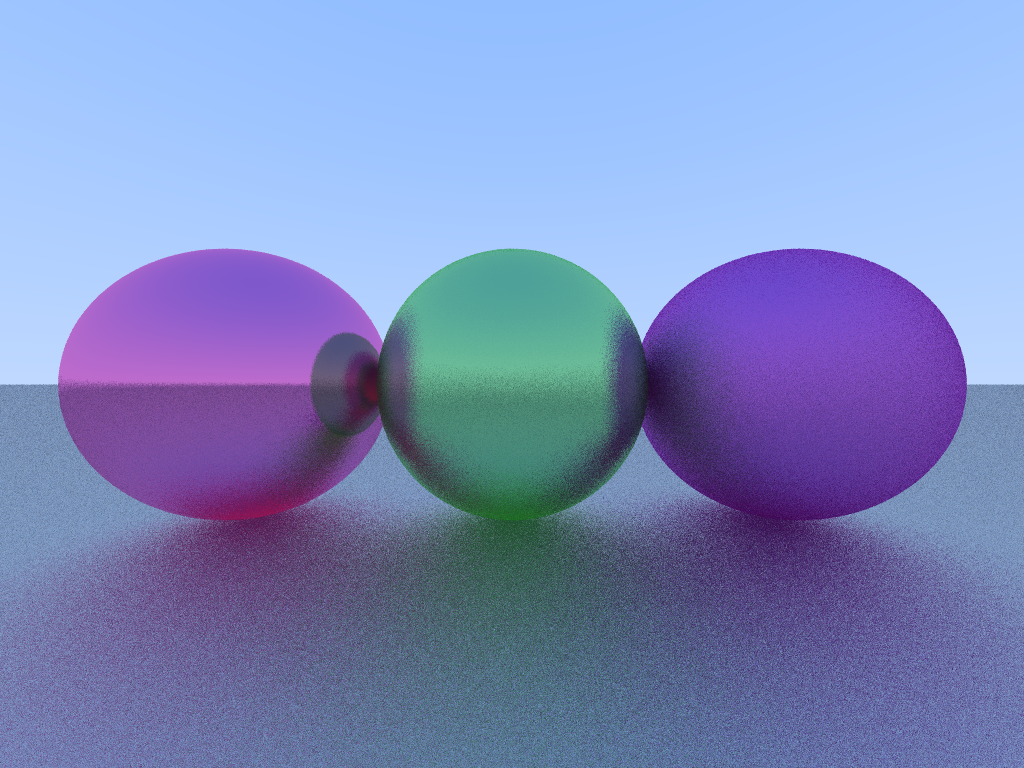
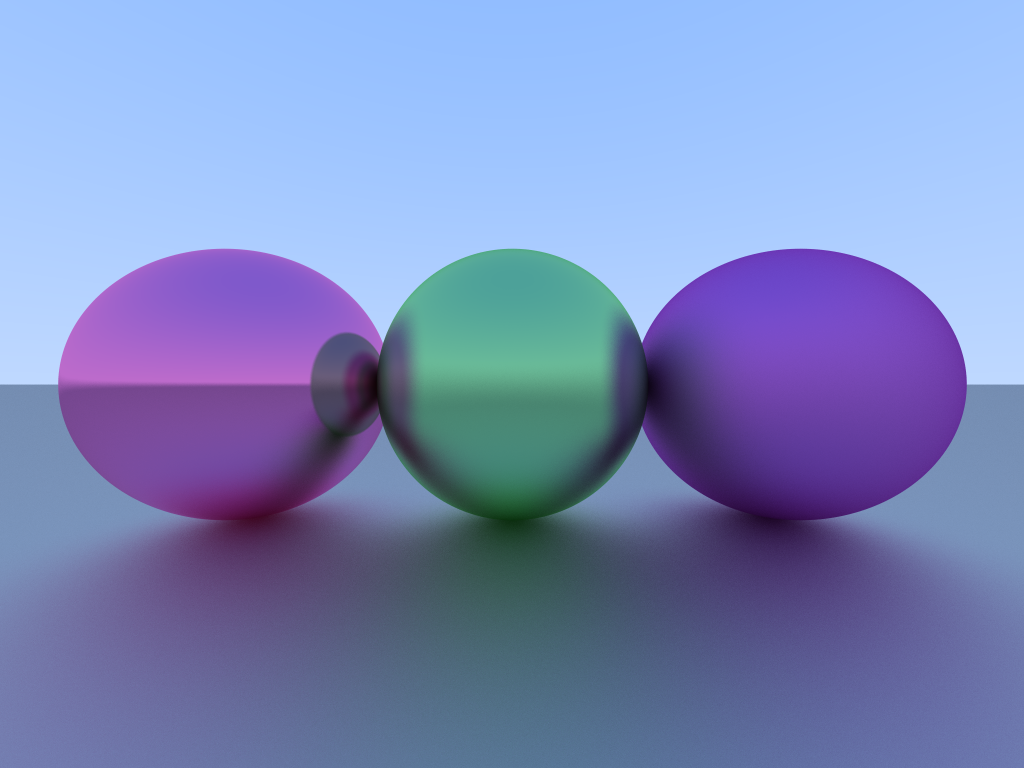
simd vectors 3d

diff --git a/Path_Tracer/Path_Tracer/vec3_simd.h b/Path_Tracer/Path_Tracer/vec3_simd.h
@@ -1,7 +1,8 @@
 #pragma once
 
 #include <math.h>
-#include "customVector.h"
+#include <time.h>
+#include <stdlib.h>
 #include <immintrin.h> // For SIMD intrinsics
 
 // Modified Vec3 structure to align with SIMD requirements
@@ -11,12 +12,9 @@ struct alignas(16) Vec3_simd {
         __m128 simd; // SSE register that can hold 4 floats (we'll use only 3)
     };
 
-    Vec3_simd() : x(0), y(0), z(0) {}
-    Vec3_simd(float x, float y, float z) : x(x), y(y), z(z) {}
+    Vec3_simd() : simd(_mm_setzero_ps()) {}
+    Vec3_simd(float x, float y, float z) : simd(_mm_set_ps(0.0f, z, y, x)) {}
     Vec3_simd(__m128 v) : simd(v) {}
-
-    Vec3_simd(const Vec3& v) : simd(_mm_set_ps(0.f, v.z, v.y, v.x)) {}
-    operator Vec3() const { return Vec3{ x, y, z }; }
 };
 
 
@@ -52,19 +50,27 @@ inline Vec3_simd cross(Vec3_simd a, Vec3_simd b) {
         _mm_mul_ps(a_yzx, b_zxy),
         _mm_mul_ps(a_zxy, b_yzx)
     );
-
-    // Shuffle back to original order (x, y, z)
-    return _mm_shuffle_ps(result, result, _MM_SHUFFLE(3, 0, 2, 1));
+    // Remove the final shuffle
+    return Vec3_simd(result);
 }
 
-// SIMD implementation of dot product
 inline float dot(Vec3_simd a, Vec3_simd b) {
-    __m128 mul = _mm_mul_ps(a.simd, b.simd);
-    __m128 shuf = _mm_shuffle_ps(mul, mul, _MM_SHUFFLE(2, 3, 0, 1));
-    __m128 sums = _mm_add_ps(mul, shuf);
-    shuf = _mm_movehl_ps(shuf, sums);
-    sums = _mm_add_ss(sums, shuf);
-    return _mm_cvtss_f32(sums);
+    __m128 dp = _mm_dp_ps(a.simd, b.simd, 0x77); // Mask 0x77 (x,y,z components)
+    return _mm_cvtss_f32(dp);
+}
+
+inline float fast_mag(Vec3_simd a) {
+    __m128 dp = _mm_dp_ps(a.simd, a.simd, 0x77);
+    return _mm_cvtss_f32(_mm_sqrt_ps(dp));
+}
+
+inline Vec3_simd norm(Vec3_simd a) {
+    __m128 len_sq = _mm_dp_ps(a.simd, a.simd, 0x77); // Correct mask
+    __m128 mask = _mm_cmpgt_ps(len_sq, _mm_setzero_ps());
+    __m128 len = _mm_sqrt_ps(len_sq);
+    __m128 inv_len = _mm_div_ps(_mm_set1_ps(1.0f), len);
+    inv_len = _mm_and_ps(inv_len, mask);
+    return Vec3_simd(_mm_mul_ps(a.simd, inv_len));
 }
 
 // SIMD implementation of magnitude
@@ -72,21 +78,6 @@ inline float mag(Vec3_simd a) {
     return sqrt(dot(a, a));
 }
 
-inline float fast_mag(Vec3_simd a) {
-    return _mm_cvtss_f32(_mm_sqrt_ss(_mm_dp_ps(a.simd, a.simd, 0x71)));
-}
-
-// SIMD implementation of normalization
-inline Vec3_simd norm(Vec3_simd a) {
-    float length = mag(a);
-    if (length > 0.0f) {
-        __m128 inv_len = _mm_set1_ps(1.0f / length);
-        return _mm_mul_ps(a.simd, inv_len);
-    }
-    return a;
-}
-
-// SIMD implementation of reflection
 inline Vec3_simd reflect(Vec3_simd a, Vec3_simd n) {
     float d = dot(a, n);
     __m128 two_d = _mm_set1_ps(2.0f * d);
@@ -104,3 +95,48 @@ inline Vec3_simd zero() {
     return _mm_setzero_ps();
 }
 
+#include <immintrin.h>
+#include <xmmintrin.h>
+
+// SIMD saturate (single float)
+inline float saturate(float a) {
+    // Branchless SSE implementation
+    __m128 val = _mm_set_ss(a);
+    val = _mm_max_ss(val, _mm_setzero_ps());
+    val = _mm_min_ss(val, _mm_set_ss(1.0f));
+    return _mm_cvtss_f32(val);
+}
+
+// SIMD saturate (Vec3)
+inline Vec3_simd saturate(Vec3_simd a) {
+    const __m128 zero = _mm_setzero_ps();
+    const __m128 one = _mm_set1_ps(1.0f);
+    __m128 result = a.simd;
+    result = _mm_max_ps(result, zero);  // Clamp min 0
+    result = _mm_min_ps(result, one);   // Clamp max 1
+    return Vec3_simd(result);
+}
+
+// Random number generation (scalar remains same)
+inline float randf() {
+    return rand() / (RAND_MAX + 1.0f);
+}
+
+// SIMD random vector [-1, 1]
+inline Vec3_simd randf3() {
+    alignas(16) float vals[4];
+    for (int i = 0; i < 3; ++i) {
+        vals[i] = 2.0f * randf() - 1.0f;
+    }
+    vals[3] = 0.0f;  // unused component
+    return Vec3_simd(_mm_load_ps(vals));
+}
+
+// SIMD random point in unit sphere
+inline Vec3_simd rand_in_sphere() {
+    Vec3_simd value = randf3();
+    while (dot(value, value) > 1.0f) {  // Using squared length check
+        value = randf3();
+    }
+    return value;
+}

diff --git a/Path_Tracer/Path_Tracer/Path_Tracer.cpp b/Path_Tracer/Path_Tracer/Path_Tracer.cpp
@@ -14,6 +14,7 @@ std::mutex console_mutex;
 #include "intersections.h"
 #include "render.h"
 #include "gaussian_filter.h"
+#include "vec3_simd.h"
 
 // definicje zapobiegajace ostrzezeniom z zewnetrznej biblioteki do zapisywania wyrenderowanego obrazu do pliku
 #define STB_IMAGE_WRITE_IMPLEMENTATION
@@ -52,7 +53,7 @@ int main(int argc, const char* argv[])
 	if (quality == 2) quality = 100;
 	const uint32_t samples = 1000 / quality;
 	const uint32_t tile_size = 64;
-	const uint32_t batch_size = 4;
+	const uint32_t batch_size = 1;
 
 	// inne zmienne
 	const uint32_t stride = 3; // glebia obrazu -> 3 dla RGB 
@@ -77,6 +78,7 @@ int main(int argc, const char* argv[])
 	const uint32_t total_tiles = num_tiles_x * num_tiles_y;
 
 	std::vector<std::thread> jobs;
+	std::atomic<uint32_t> tiles_done(0);
 
 	// praca watkow
 	for (uint32_t t = 0; t < num_threads; ++t)
@@ -86,14 +88,11 @@ int main(int argc, const char* argv[])
 			{
 				uint32_t start_tile_index = next_tile.fetch_add(batch_size); // ustawienie poczatkowego fragmentu zeby watek wiedzial jaki zakres fragmentow pobrac
 				
-
 				if (start_tile_index >= total_tiles)
 					break;
 
 				uint32_t end_tile_index = std::min(start_tile_index + batch_size, total_tiles); // wyznaczenie ostatniego pobranego fragmentu przez watek
-				if (progress) {
-					printf("Renderowanie fragmentow od %i do %i na %i fragmentow...\n", start_tile_index, end_tile_index - 1, total_tiles);
-				}
+
 				// renderowanie po kolei kazdego fragmentu
 				for (uint32_t tile_index = start_tile_index; tile_index < end_tile_index; ++tile_index)
 				{
@@ -105,7 +104,7 @@ int main(int argc, const char* argv[])
 					{
 						for (uint32_t x = tile_x; x < tile_x + tile_size && x < width; ++x)
 						{
-							Vec3 color = render(x, y, width, height, bounces, samples, scene); // wyliczenie kolorow RGB piksela
+							Vec3_simd color = render(x, y, width, height, bounces, samples, scene); // wyliczenie kolorow RGB piksela
 							uint8_t* pixel = (uint8_t*)image + stride * (x + y * width);
 
 							// zapisanie do piksela kolorow RGB
@@ -114,9 +113,16 @@ int main(int argc, const char* argv[])
 							pixel[2] = static_cast<uint8_t>(saturate(color.z) * 255.0f);
 						}
 					}
+
+					uint32_t done = tiles_done.fetch_add(1) + 1;
+
+					float percent = (100.0f * done) / total_tiles;
+					printf("\rProgress: %.2f%% (%u / %u tiles)", percent, done, total_tiles);
+					fflush(stdout); // force flush for \r to work properly
+					
 				}
 			}
-			});
+		});
 	}
 
 	// dolaczanie watkow

diff --git a/Path_Tracer/Path_Tracer/render.h b/Path_Tracer/Path_Tracer/render.h
@@ -6,5 +6,5 @@
 
 void adjust(Ray& r);
 void perturb(Ray& r, float degree);
-Vec3 path_tracing(Ray ray, Scene& scene, uint32_t bounces);
-Vec3 render(uint32_t x, uint32_t y, uint32_t width, uint32_t height, uint32_t bounces, uint32_t samples, Scene& scene);
+Vec3_simd path_tracing(Ray ray, Scene& scene, uint32_t bounces);
+Vec3_simd render(uint32_t x, uint32_t y, uint32_t width, uint32_t height, uint32_t bounces, uint32_t samples, Scene& scene);

diff --git a/Path_Tracer/Path_Tracer/objects.h b/Path_Tracer/Path_Tracer/objects.h
@@ -10,7 +10,7 @@ struct alignas(16) Sphere {
     float _pad[2];      // Padding to maintain alignment (optional)
 };
 
-// Plane with SIMD-aligned members
+// Plane with SIMD-aligned members.
 struct alignas(16) Plane {
     Vec3_simd normal;   // Surface normal (16-byte aligned)
     float distance;     // Distance from origin
